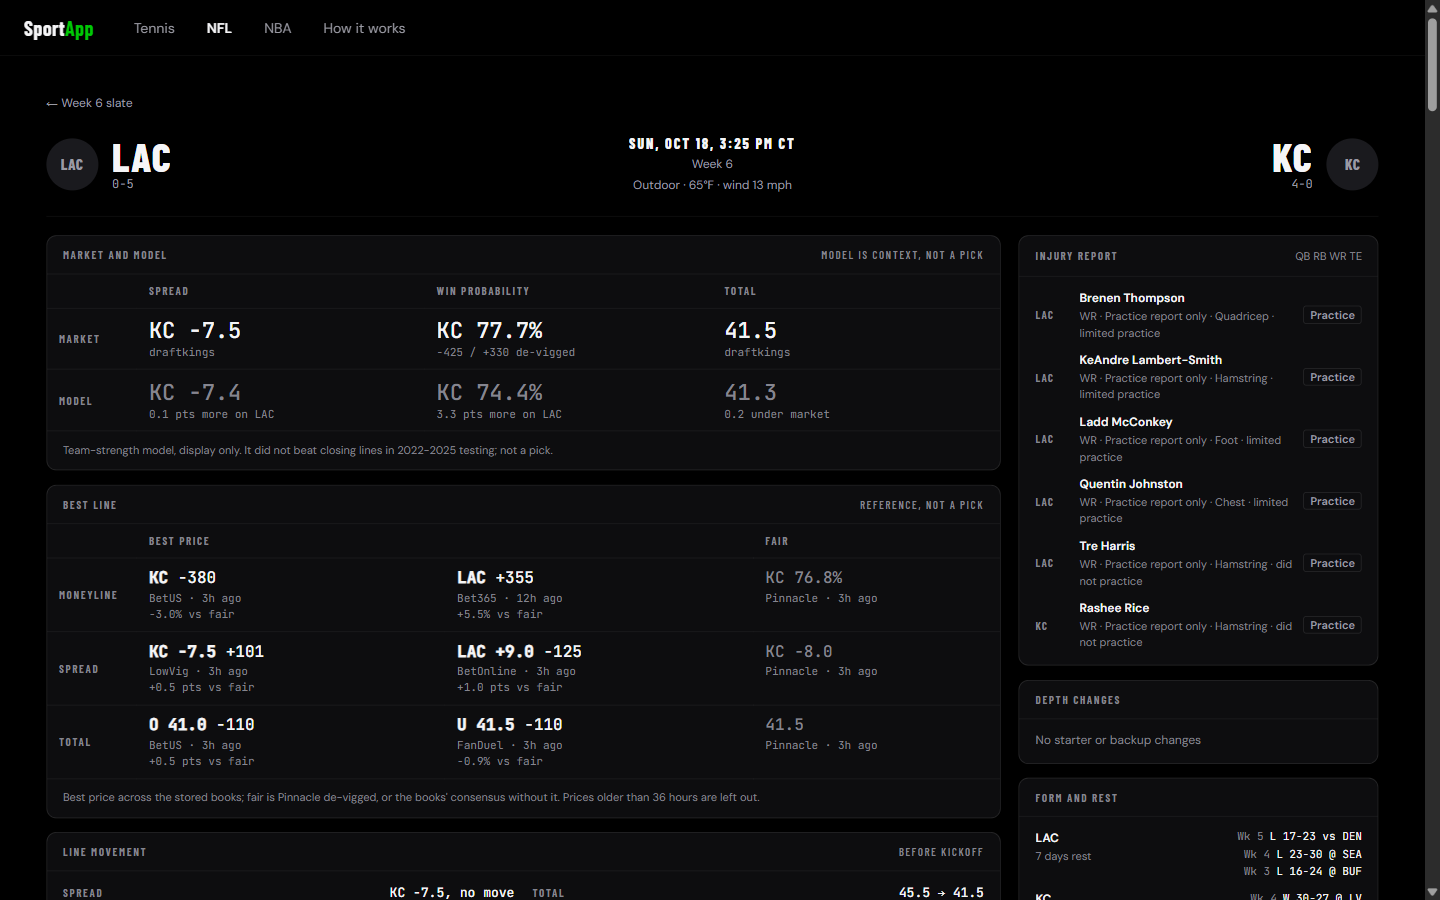
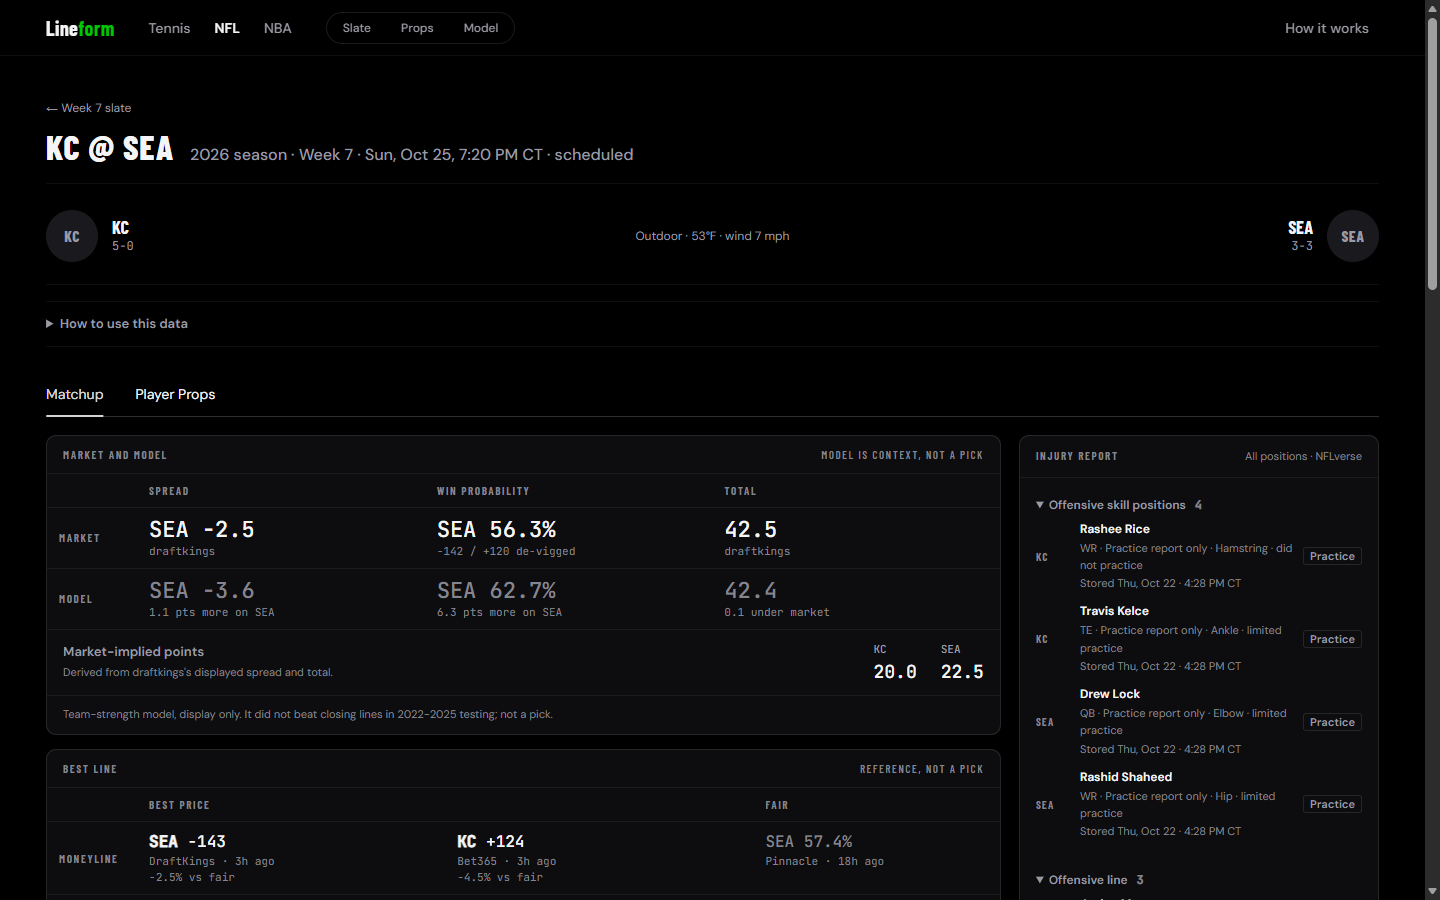
docs: retake README screenshots after the Lineform redesign
The three screenshots predated the Lineform shell and still showed the
SportApp header. Retakes the tennis slate, NFL game (Matchup tab) and NFL
track record from the live demo at 1440x900, adds the NBA prop board, and
notes the two rejected NFL ranking slices shown on the track record.

diff --git a/README.md b/README.md
@@ -23,6 +23,8 @@ so an edge is measured rather than assumed.
 
 ![Tennis slate](docs/screenshots/tennis-slate.png)
 
+![NBA prop board: gray reference rows, P(over) for assists only](docs/screenshots/nba-board.png)
+
 The tennis slate ranks its remaining picks by modelled EV. A large EV figure
 there is the model's own estimate, not a validated edge. Those picks are
 graded forward on the tennis track record page, and their confidence tiers
@@ -53,7 +55,9 @@ models themselves.
 - **NFL props.** The first grading of the PrizePicks prop model (2026-09-26)
   hit 48.1% of 750 calls, against a 57.7% per-pick break-even. Prop edges
   have been gray since. Frozen pre-kickoff predictions are graded weekly
-  under a rule fixed before any week was played. A new Rec Targets
+  under a rule fixed before any week was played. Through week 6 of 2026,
+  two of its four slices (standard unders and demon overs) have been
+  rejected under that rule; the other two are still accruing. A new Rec Targets
   projection is served as a reference, but its over probability failed its
   one 2025 calibration check, so it stays hidden.
 - **NBA over probabilities.** The first method passed the calibration rule
